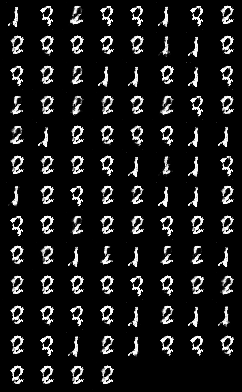
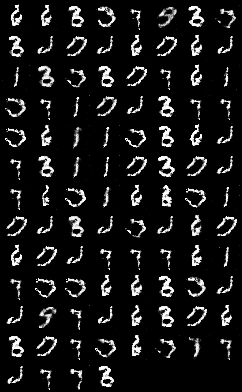
Modified Loss function so we use L_recon = MSE(D(x)-D(x_data))^2 Reconstructions produce digits but still does not reproduce data.

diff --git a/gan_vae.py b/gan_vae.py
@@ -257,8 +257,9 @@ for epoch in range(10000):
         netG.zero_grad()
         labelv = Variable(label.fill_(real_label))
         output = netD(fake)
+        output_orig = netD(inputv)
         #errG = criterion(output,labelv) + loss_function(fake,inputv,mu,logvar)
-        errG = loss_function(output,labelv,mu,logvar) #+ 0.5*criterion(output,labelv)
+        errG = loss_function(output,output_orig,mu,logvar) #+ 0.5*criterion(output,labelv)
         errG.backward()
         D_G_z2 = output.data.mean()
         optimizerG.step()
